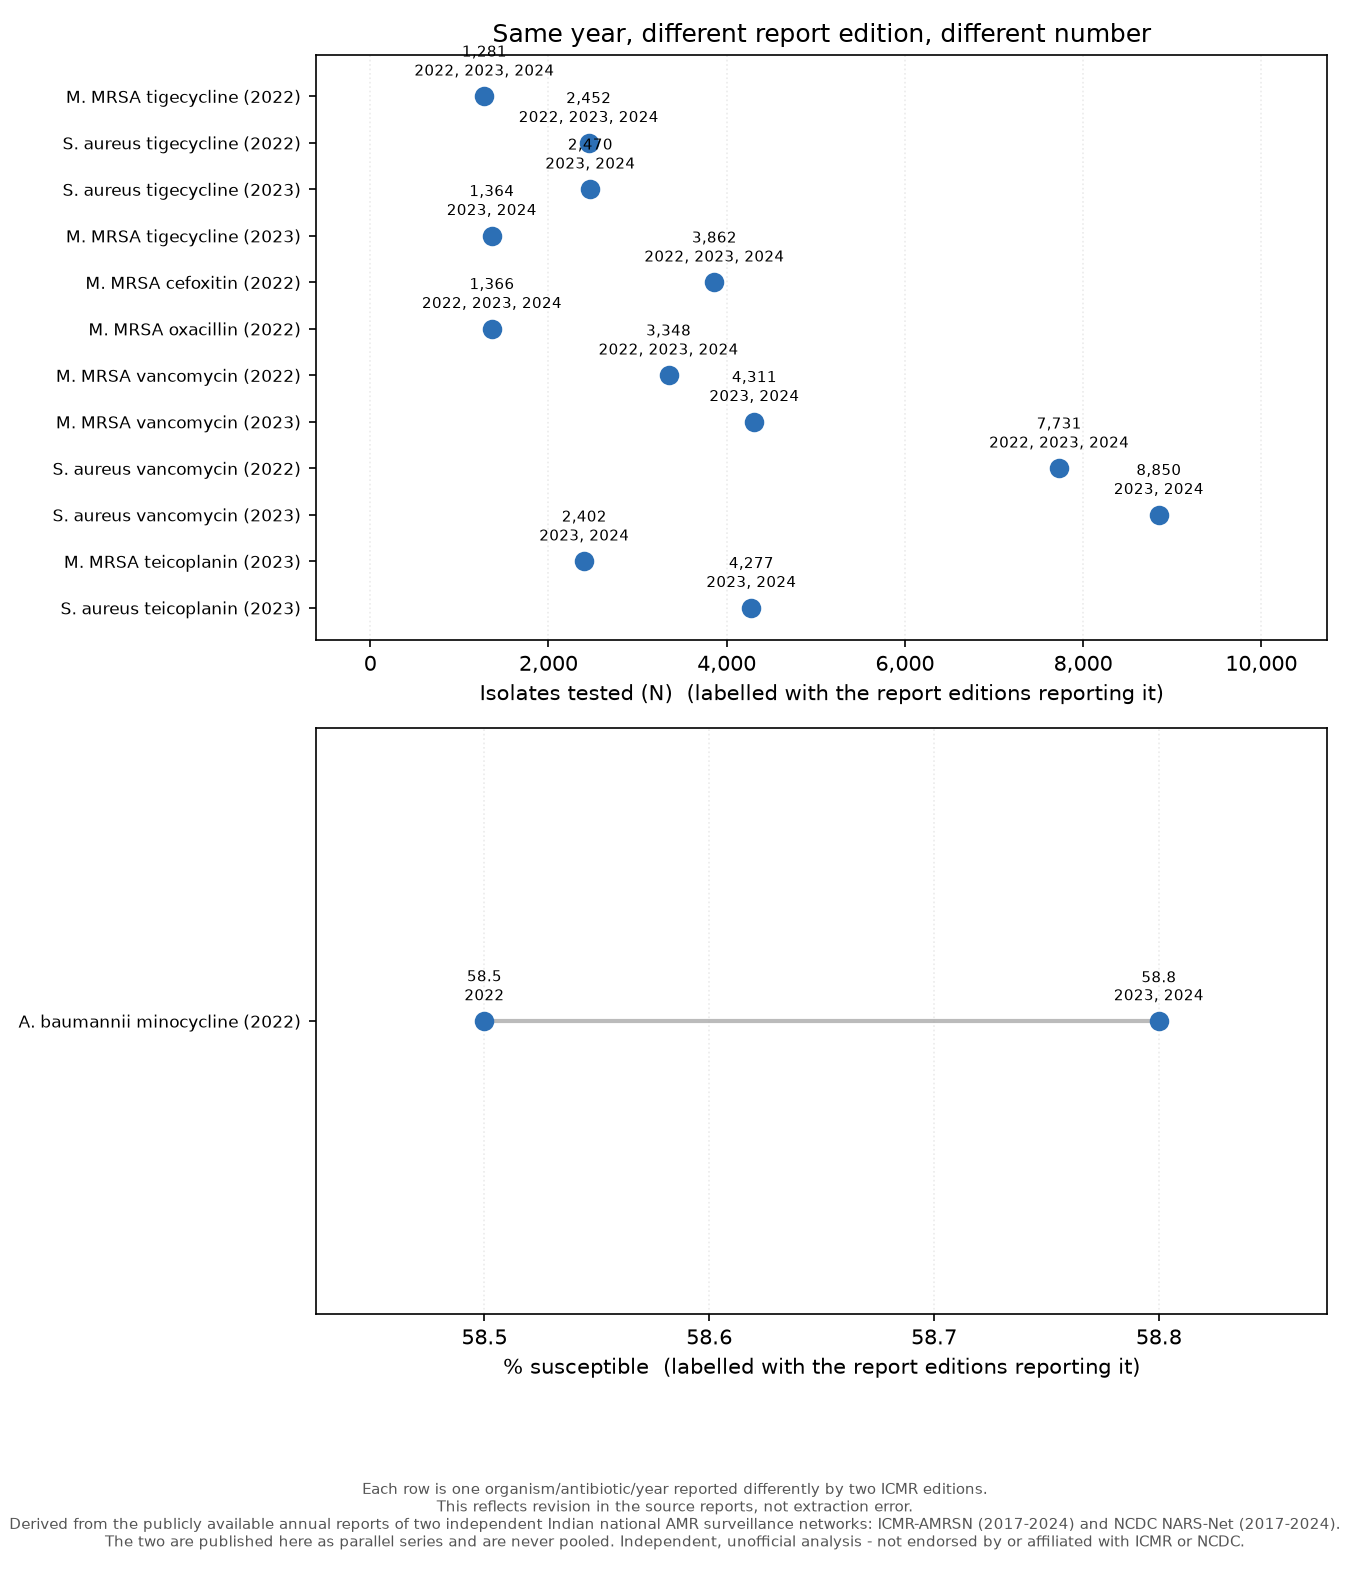
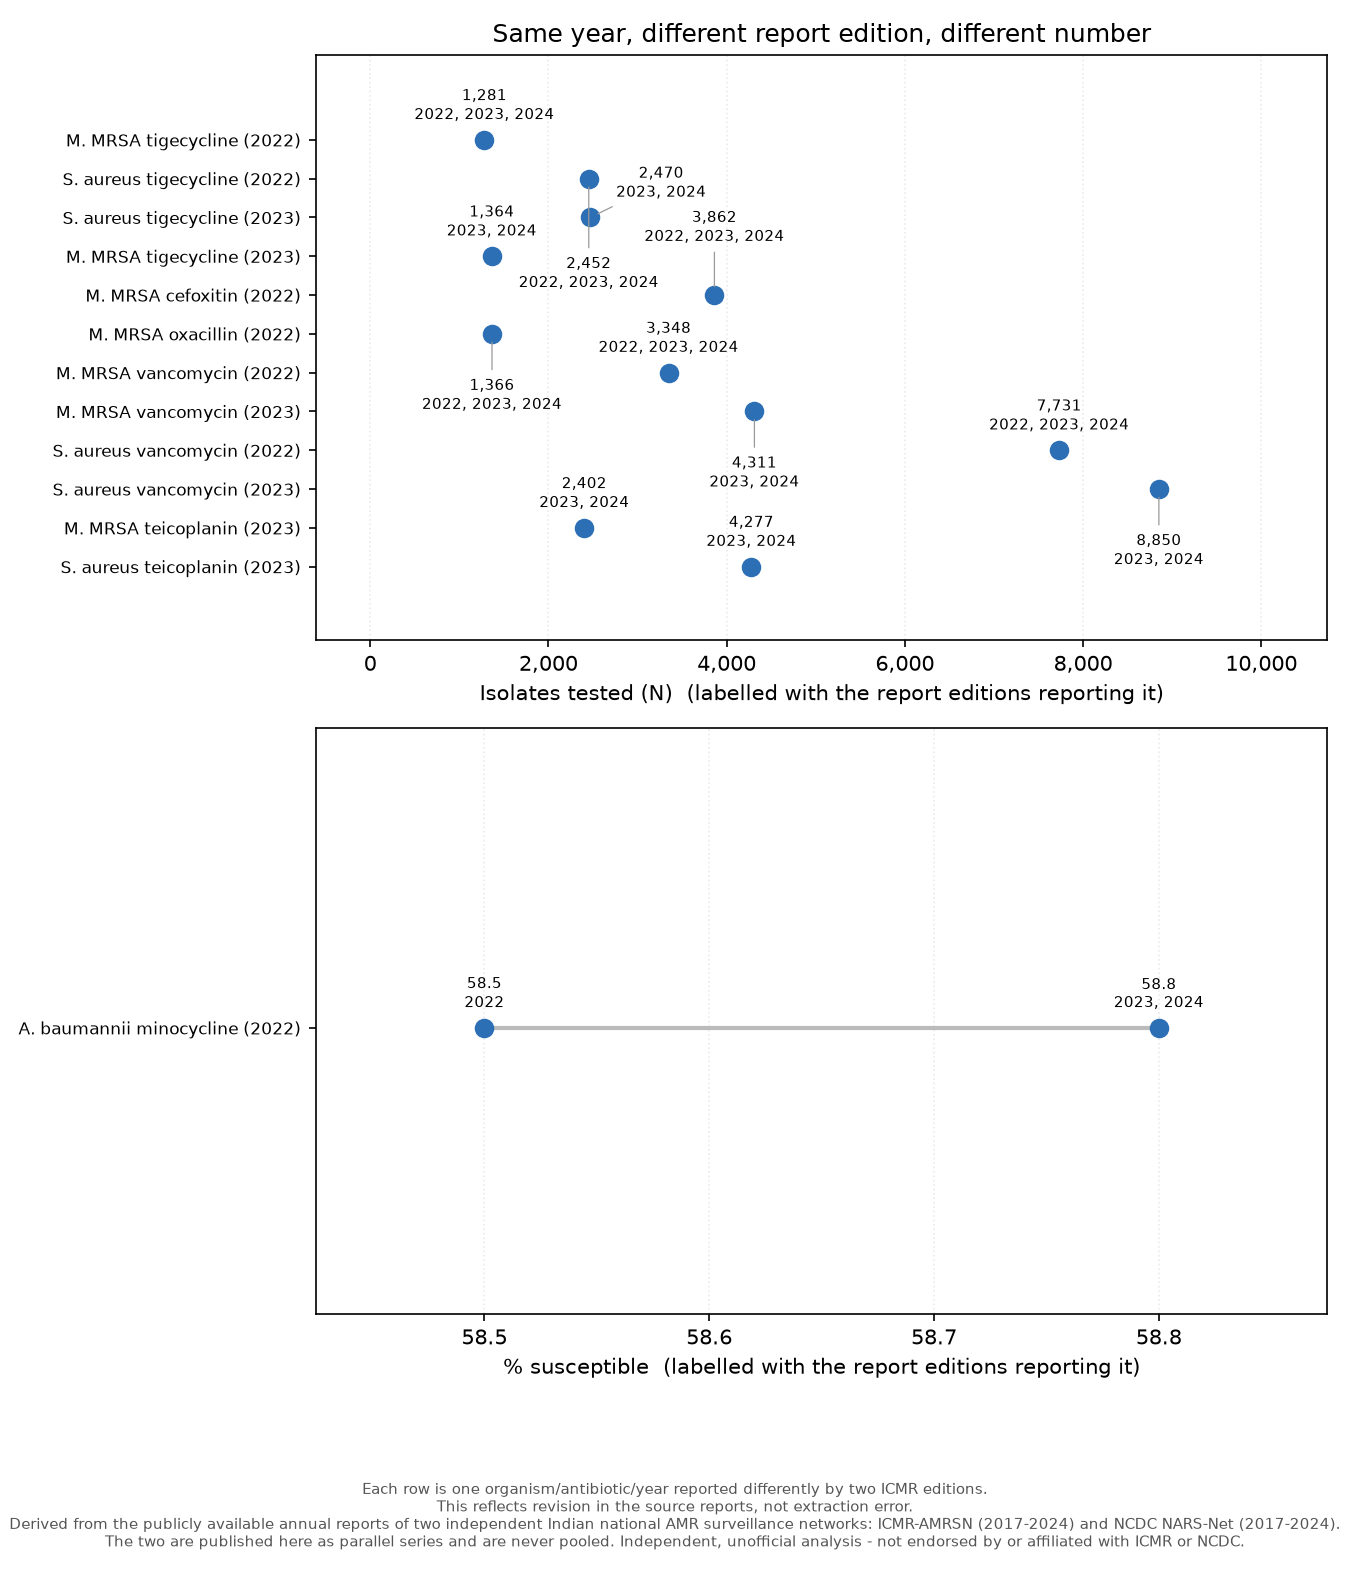
Stop revision labels printing on top of each other
Two revisions with close values land within a few pixels of each other on
adjacent rows of the revisions chart, and their two-line labels then overprint.
S. aureus tigecycline is 2,452 in 2022 and 2,470 in 2023: the second label was
printing across the first one's marker, and neither number could be read where
they crossed.

Every label is now tested against every box already placed -- other labels and
the markers themselves, since the marker was half the problem -- and moved to
its first free candidate position: above, then below, then further out, then to
the sides. Any label that had to move gets a thin leader line back to its own
point, so moving it does not detach it from the value it describes. Seven of the
fourteen labels move; the rest keep the default position.

Hand-placing the tigecycline pair was the alternative and would have fixed this
chart at this size only. Which labels collide depends on the values, the number
of rows and the DPI, and all three change.

Two defects found while checking the result, neither visible by eye:

- Annotation.get_window_extent does NOT return the text box. It spans from the
  annotated point to the text, so it grows with the offset -- one 25px label
  measured 33px, 50px and 78px at three different offsets. Every collision box
  was wrong by a different amount and real overlaps passed the test: the first
  version of this still had two, at about ten pixels each, which looked clean
[…]

diff --git a/viz/trend_charts.py b/viz/trend_charts.py
@@ -55,6 +55,8 @@ from matplotlib.ticker import (  # noqa: E402
     MaxNLocator,
     NullLocator,
 )
+from matplotlib.text import Text  # noqa: E402
+from matplotlib.transforms import Bbox  # noqa: E402
 
 REPO_ROOT = Path(__file__).resolve().parent.parent
 sys.path.insert(0, str(REPO_ROOT))
@@ -83,6 +85,82 @@ def _percent_axis(ax, label):
     ax.set_ylim(-PCT_AXIS_PAD, 100 + PCT_AXIS_PAD)
     ax.set_yticks(range(0, 101, 20))
     ax.grid(alpha=0.25, linestyle=":")
+
+
+# Candidate label placements in points, tried in order: directly above the
+# point, then alternating below and above at growing distance, then out to the
+# sides. The first that hits nothing already placed wins.
+LABEL_OFFSETS = [
+    (0, 10), (0, -20), (0, 26), (0, -36), (0, 42), (0, -52),
+    (34, 10), (-34, 10), (34, -20), (-34, -20),
+]
+
+
+def _resolve_label_overlaps(fig, ax, annotations, points, pad=2.0):
+    """Move any label that would print on top of another label or a marker.
+
+    Two revisions with close values land within a few pixels of each other on
+    adjacent rows and their two-line labels then overprint into something
+    unreadable: S. aureus tigecycline is 2,452 in 2022 and 2,470 in 2023, and
+    the second label was printing across the first one's marker. Hand-placing
+    that pair would fix this chart at this size and nothing else, since which
+    labels collide depends on the values, the row count and the DPI. So every
+    label is tested against every box already placed and moved to its first
+    free candidate, and any label that had to move gets a leader line so it
+    stays visibly attached to its own point.
+
+    Boxes are translated arithmetically rather than re-rendered per candidate:
+    an offset-points annotation just shifts, so one draw is enough to measure
+    all of them.
+    """
+    fig.canvas.draw()
+    renderer = fig.canvas.get_renderer()
+    scale = fig.dpi / 72.0
+    axes_box = ax.get_window_extent(renderer=renderer)
+
+    # Markers are obstacles too, not just other labels.
+    occupied = [
+        Bbox.from_bounds(px - 7, py - 7, 14, 14)
+        for px, py in (ax.transData.transform(pt) for pt in points)
+    ]
+
+    base_dx, base_dy = LABEL_OFFSETS[0]
+    for ann in annotations:
+        # Text.get_window_extent, NOT ann.get_window_extent. Annotation
+        # overrides it to span from the annotated point all the way to the
+        # text, so the box it returns grows with the offset -- 25px of text
+        # measured as 50px at one offset and 78px at another. Boxes that wrong
+        # let real collisions through. The parent method returns the text alone,
+        # which is the only thing that must not overprint.
+        base = Text.get_window_extent(ann, renderer=renderer)
+        chosen, chosen_box = LABEL_OFFSETS[0], None
+        for dx, dy in LABEL_OFFSETS:
+            box = Bbox.from_bounds(
+                base.x0 + (dx - base_dx) * scale,
+                base.y0 + (dy - base_dy) * scale,
+                base.width,
+                base.height,
+            )
+            grown = box.expanded(
+                1.0 + pad / max(box.width, 1.0), 1.0 + pad / max(box.height, 1.0)
+            )
+            # Containment is checked on BOTH axes. Testing x alone leaves a
+            # label on the first or last row free to run outside the frame --
+            # 1,281 on the top row was doing exactly that, over the title.
+            inside = (
+                axes_box.containsx(grown.x0)
+                and axes_box.containsx(grown.x1)
+                and axes_box.containsy(grown.y0)
+                and axes_box.containsy(grown.y1)
+            )
+            if inside and not any(grown.overlaps(o) for o in occupied):
+                chosen, chosen_box = (dx, dy), grown
+                break
+        if chosen_box is None:  # nothing free; keep the default and move on
+            chosen_box = Bbox.from_bounds(base.x0, base.y0, base.width, base.height)
+        ann.set_position(chosen)
+        ann.arrow_patch.set_visible(chosen != LABEL_OFFSETS[0])
+        occupied.append(chosen_box)
 
 
 def _margin_legend(fig, ax, fig_h, ncol=4, offset=0.52):
@@ -456,8 +534,11 @@ def chart_revisions(out_path, top_n=12):
         len(panels), 1, figsize=(9, sum(heights) + 1.6), squeeze=False
     )
 
+    to_place = []
     for ax, (key, items, xlabel) in zip(axes[:, 0], panels):
         labels = []
+        annotations, points = [], []
+        to_place.append((ax, annotations, points))
         is_count = key.startswith("tested_n")
         for i, rev in enumerate(items):
             by_report = {int(k): v for k, v in rev[key].items() if v is not None}
@@ -477,18 +558,31 @@ def chart_revisions(out_path, top_n=12):
             for value, editions in sorted(shared.items()):
                 ax.scatter(value, i, s=70, zorder=2, color="#2c6fb5")
                 fmt = "{:,.0f}" if is_count else "{:g}"
-                ax.annotate(
-                    "{}\n{}".format(
-                        fmt.format(value),
-                        ", ".join(str(e) for e in editions),
-                    ),
-                    (value, i),
-                    textcoords="offset points",
-                    xytext=(0, 10),
-                    ha="center",
-                    fontsize=7,
-                    linespacing=1.3,
+                annotations.append(
+                    ax.annotate(
+                        "{}\n{}".format(
+                            fmt.format(value),
+                            ", ".join(str(e) for e in editions),
+                        ),
+                        (value, i),
+                        textcoords="offset points",
+                        xytext=LABEL_OFFSETS[0],
+                        ha="center",
+                        fontsize=7,
+                        linespacing=1.3,
+                        zorder=3,
+                        # Hidden unless the label has to move; see
+                        # _resolve_label_overlaps.
+                        arrowprops={
+                            "arrowstyle": "-",
+                            "linewidth": 0.6,
+                            "color": "#999999",
+                            "shrinkA": 1,
+                            "shrinkB": 4,
+                        },
+                    )
                 )
+                points.append((value, i))
             org = rev["organism"]
             labels.append(
                 "{}. {} {} ({})".format(
@@ -498,7 +592,9 @@ def chart_revisions(out_path, top_n=12):
 
         ax.set_yticks(range(len(labels)))
         ax.set_yticklabels(labels, fontsize=8)
-        ax.set_ylim(-0.9, max(len(labels) - 0.3, 0.9))
+        # Headroom above the first row and below the last, so a two-line label
+        # on an end row has somewhere to go -- 1,281 on the top row had not.
+        ax.set_ylim(-2.2, max(len(labels) - 0.3, 0.9) + 1.2)
         ax.invert_yaxis()
         ax.set_xlabel("{}  (labelled with the report editions reporting it)".format(
             xlabel
@@ -524,6 +620,11 @@ def chart_revisions(out_path, top_n=12):
         "ICMR editions.\nThis reflects revision in the source reports, not "
         "extraction error.",
     )
+    # After tight_layout and the footer, so the axes are in their final
+    # position: label boxes are measured in display coordinates, and moving an
+    # axis afterwards would invalidate every placement decided here.
+    for ax, annotations, points in to_place:
+        _resolve_label_overlaps(fig, ax, annotations, points)
     out_path.parent.mkdir(parents=True, exist_ok=True)
     fig.savefig(out_path, dpi=150)
     plt.close(fig)
